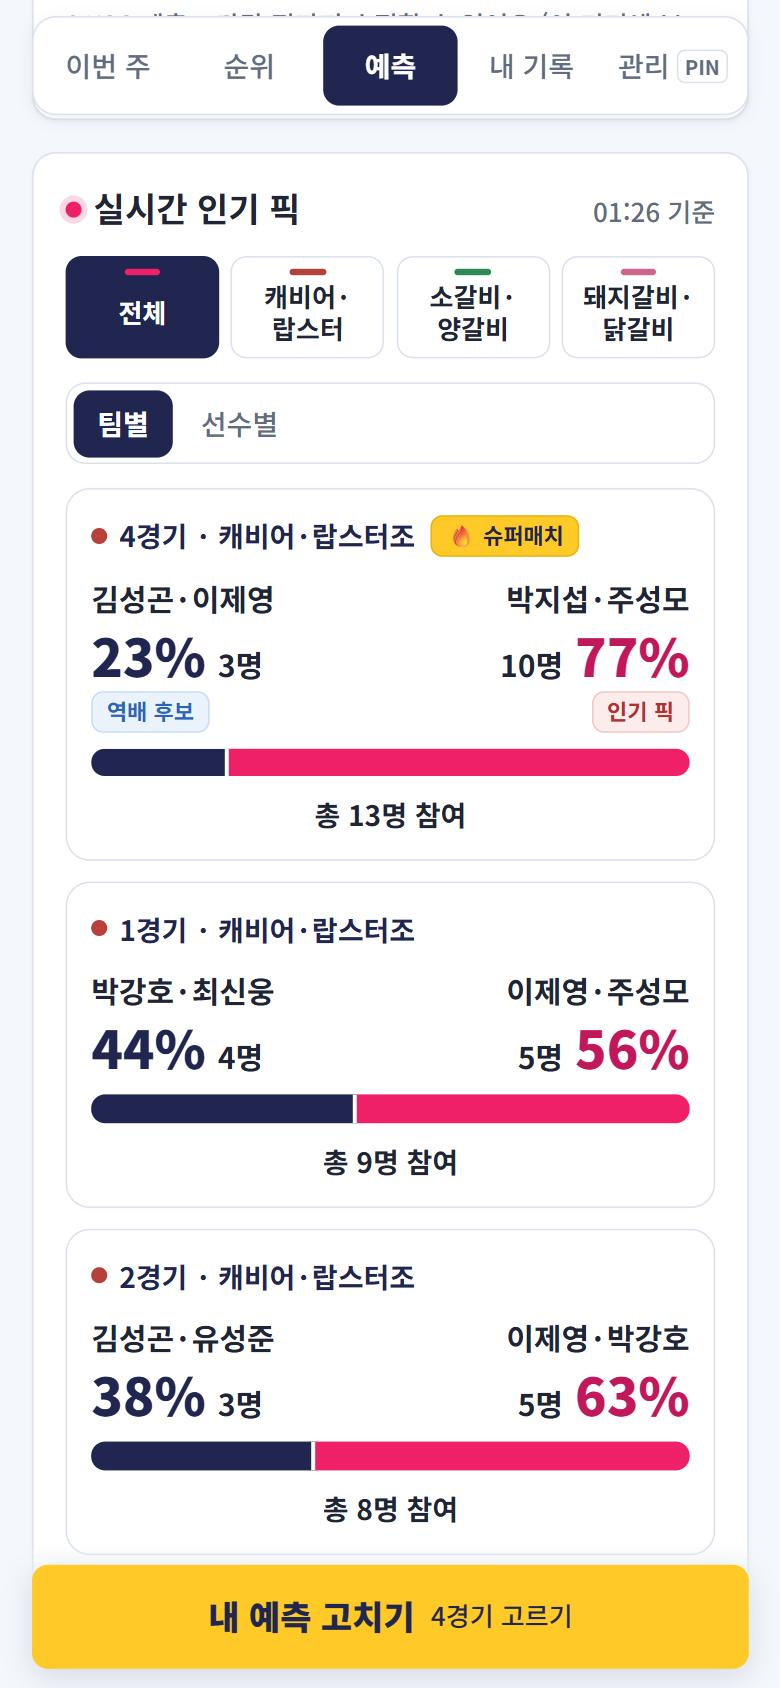
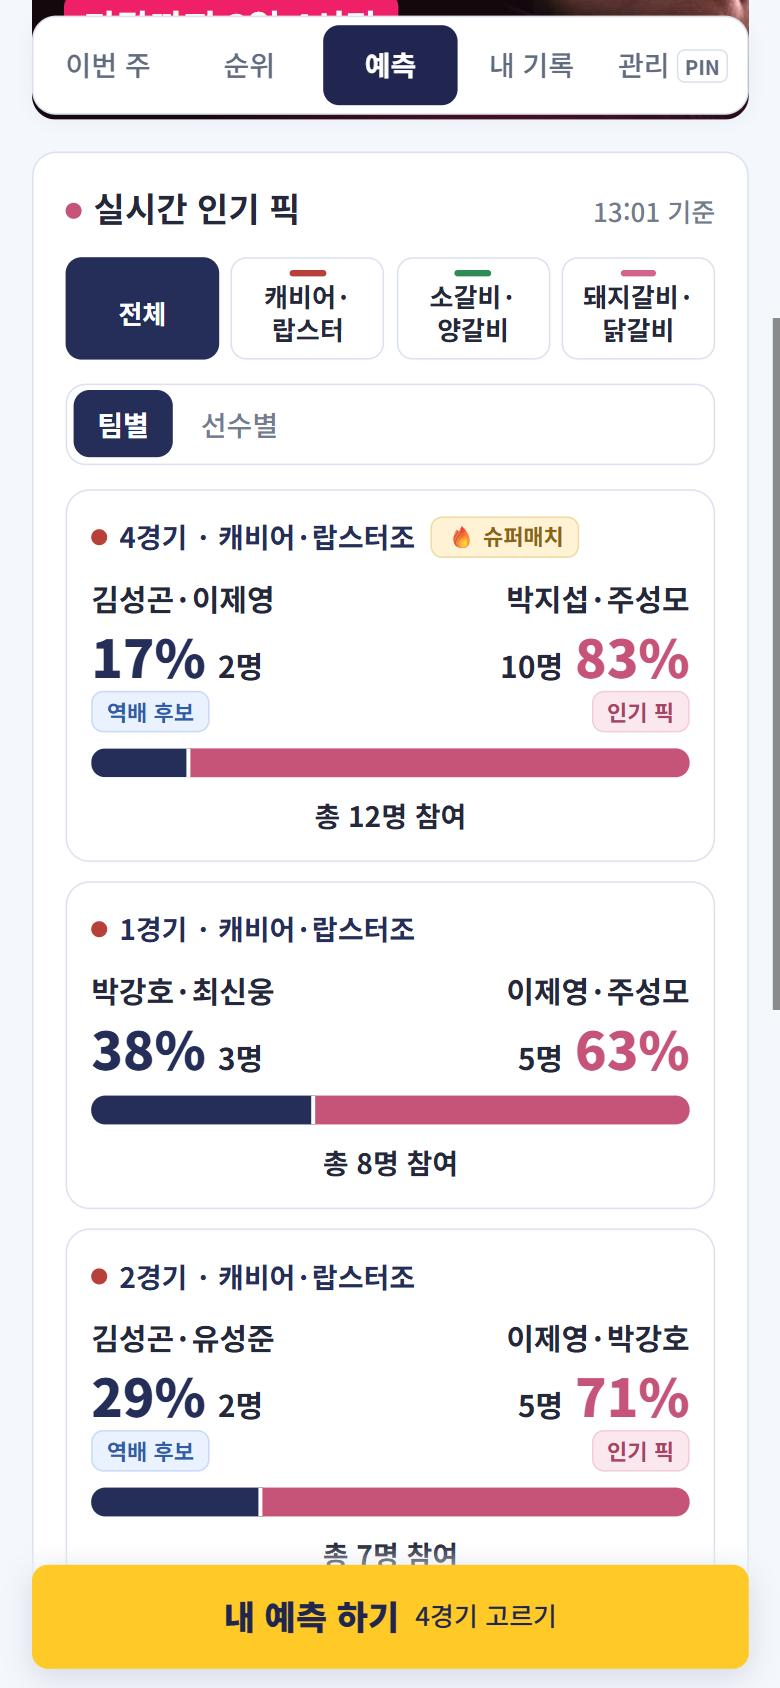
인기 픽 색 체계: 네이비(1팀)+뮤트 로즈(2팀), 배지 색 정리, 그림자 제거

diff --git a/app.css b/app.css
@@ -460,11 +460,17 @@ textarea { width: 100%; min-height: 84px; resize: vertical; }
 @media (min-width: 600px) { .plan-banner { min-height: 148px; } .pb-text { padding: 18px 0 18px 22px; } .pb-pig { right: 8px; } }
 /* 인기 픽·체결 */
 .live-dot { display: inline-block; width: 8px; height: 8px; border-radius: 50%; background: var(--plan); margin-right: 6px; vertical-align: 2px; box-shadow: 0 0 0 3px rgb(240 32 104 / .18); }
+.pp .live-dot { background: var(--rose); box-shadow: none; }
+/* 인기 픽 색 체계: 네이비(1팀·왼쪽) + 뮤트 로즈(2팀·오른쪽). 팀 색은 비율과 상관없이 고정, 인기 픽·역배 후보는 배지로만 표현
+   그라데이션·그림자 없음, 수치는 막대 바깥. 이 카드 안에서만 적용 */
+.pp { --navy: #252D59; --rose: #C65378; --rose-text: #A94365; --text: #24283A; --text-2: #737B90; --line: #DCE2EF; --line-2: #E9EDF5;
+  background: #FFFFFF; border-color: var(--line); color: var(--text); box-shadow: none; }
+.pp .muted { color: var(--text-2); }
 .pp-head { display: flex; align-items: baseline; justify-content: space-between; gap: 8px; flex-wrap: wrap; }
 .pp-list { list-style: none; margin: 0; padding: 0; display: grid; }
 .pp-row { display: grid; grid-template-columns: 22px minmax(0, 1fr) 78px; gap: 10px; align-items: center; padding: 10px 0; border-top: 1px solid var(--line-2); }
 .pp-row:first-child { border-top: 0; }
-.pp-rank { font-size: 17px; font-weight: 700; color: var(--plan-text); text-align: center; }
+.pp-rank { font-size: 17px; font-weight: 700; color: var(--navy); text-align: center; }
 .pp-main { min-width: 0; display: grid; gap: 2px; }
 .pp-name { display: flex; flex-wrap: wrap; align-items: center; gap: 2px 6px; }
 .pp-name b { font-size: 15px; font-weight: 700; }
@@ -472,23 +478,23 @@ textarea { width: 100%; min-height: 84px; resize: vertical; }
 .pe-bar { display: block; height: 4px; border-radius: 2px; background: var(--line-2); overflow: hidden; margin-top: 4px; }
 .pe-bar i { display: block; height: 100%; background: var(--navy); border-radius: 2px; }
 /* 인기 픽 막대: 회색 바탕(테두리) 안에 핑크 채움 */
-.pp-bar { display: block; height: 10px; margin-top: 6px; border-radius: 5px; background: var(--surface-2); box-shadow: inset 0 0 0 1px var(--line); overflow: hidden; }
-.pp-bar i { display: block; height: 100%; border-radius: 5px; background: var(--plan); }
+.pp-bar { display: block; height: 10px; margin-top: 6px; border-radius: 5px; background: var(--line-2); overflow: hidden; }
+.pp-bar i { display: block; height: 100%; border-radius: 5px; background: var(--navy); }
 /* 인기 픽 조 탭: 전체 + 조 3개 */
 .pp-groups { grid-template-columns: repeat(4, minmax(0, 1fr)); }
 .pp-groups button { font-size: 13px; padding: 6px 2px; }
-.pp-groups button.gall::before { background: var(--plan); }
+.pp-groups button.gall::before { background: var(--navy); }
 .pp-nums { display: grid; justify-items: end; gap: 2px; }
 .pp-nums b { font-size: 16px; font-weight: 700; color: var(--navy); }
 .pp-nums span { font-size: var(--fs-cap); font-weight: 700; color: var(--text-2); }
 /* 인기 픽 배지: 인기 픽(빨강) · 역배 후보(파랑) · 슈퍼매치(노랑, 불꽃) — 뜻이 다르므로 색도 다르게 */
-.chip.hot { background: var(--hell-50); color: var(--hell-text); border-color: #F1CACA; }
-.chip.under { background: var(--heaven-50); color: var(--heaven-text); border-color: #C9DCF5; }
-.chip.super { background: var(--yellow); color: var(--navy); border-color: #E9B60F; }
+.chip.hot { background: #FBE8EF; color: #A94365; border-color: #F3CDDA; }
+.chip.under { background: #EAF1FF; color: #315CA8; border-color: #CADAF7; }
+.chip.super { background: #FFF2D5; color: #8B6418; border-color: #F0DCA6; }
 .m-head .chip.super { margin-right: auto; }
 /* 팀별 인기 픽: 경기 하나 = 카드 하나. 왼쪽 팀 navy, 오른쪽 팀 핑크로 고정 */
 .mb-list { list-style: none; margin: 0; padding: 0; display: grid; gap: 10px; }
-.mb { display: grid; gap: 8px; padding: 12px; border: 1px solid var(--line); border-radius: var(--r-card); background: var(--surface); }
+.mb { display: grid; gap: 8px; padding: 12px; border: 1px solid var(--line); border-radius: var(--r-card); background: #FFFFFF; }
 .mb-head { display: flex; flex-wrap: wrap; align-items: center; gap: 4px 8px; }
 .mb-title { font-size: 14px; color: var(--navy); }
 .mb-total { justify-self: center; font-size: 14px; font-weight: 700; color: var(--text); }
@@ -501,14 +507,14 @@ textarea { width: 100%; min-height: 84px; resize: vertical; }
 .mb-fig b { font-size: 26px; font-weight: 900; line-height: 1.15; }
 .mb-fig span { font-size: 15px; font-weight: 700; color: var(--text); }
 .mb-team.a .mb-fig b { color: var(--navy); }
-.mb-team.b .mb-fig b { color: var(--plan-text); }
-.mb-bar { display: flex; height: 14px; border-radius: 7px; overflow: hidden; background: var(--line-2); box-shadow: inset 0 0 0 1px var(--line); }
+.mb-team.b .mb-fig b { color: var(--rose); }
+.mb-bar { display: flex; height: 14px; border-radius: 7px; overflow: hidden; background: var(--line-2); }
 .mb-bar i { display: block; height: 100%; }
 .mb-bar i.a { background: var(--navy); }
-.mb-bar i.b { background: var(--plan); }
+.mb-bar i.b { background: var(--rose); }
 .mb-bar i.a + i.b { box-shadow: -2px 0 0 #fff; }
-.pp-nums .pp-pct { font-size: 14px; color: var(--plan-text); }
-.chip.sneaky { background: #FCE8F0; color: var(--plan-text); border-color: #F5C3D7; }
+.pp-nums .pp-pct { font-size: 14px; color: var(--text); }
+.chip.sneaky { background: #FBE8EF; color: #A94365; border-color: #F3CDDA; }
 .feed { gap: 6px; }
 .feed-row { display: grid; grid-template-columns: auto auto minmax(0, 1fr) auto; gap: 8px; align-items: center; font-size: 14px; min-height: 32px; }
 .feed-t { color: var(--text-2); font-size: var(--fs-sm); }

diff --git a/docs/deploy-log.md b/docs/deploy-log.md
@@ -639,3 +639,23 @@ $ node deploy.test.js
 | 순위·관리 › 예측(가짜 서버 PIN) | 순위표 머리글 그대로, 관리 목록 15명 |
 | 가로 넘침 | scrollWidth 360 |
 확인 못 한 것: 실제 DB의 Realtime 경로(실제 주에 제출해야 함). 한쪽 100% 카드는 가짜 데이터에 없어서 화면으로는 못 봤고 테스트(matchBoard 배지)로만 확인.
+
+## 23. 인기 픽 색 체계: 네이비 + 뮤트 로즈 (사용자 요청, 2026-11-15)
+인기 픽 카드(`.pp`) 안에서만 적용. 다른 화면의 토큰(--bg, --text 등)과 배너·장 마감 리포트의 핑크는 그대로.
+```
+$ node deploy.test.js | tail -1
+21 passed
+```
+화면 확인(MOCK_DEMO 가짜 데이터, 390px) — 브라우저가 계산한 색:
+| 요소 | 값 |
+|---|---|
+| 1팀 막대·% | rgb(37, 45, 89) = #252D59 |
+| 2팀 막대·% | rgb(198, 83, 120) = #C65378 |
+| 카드 배경 / 테두리 | #FFFFFF / rgb(220, 226, 239) = #DCE2EF |
+| 기본 글자 / 보조 글자 | rgb(36, 40, 58) = #24283A / rgb(115, 123, 144) = #737B90 |
+| 인기 픽 배지 | 배경 #FBE8EF, 글자 #A94365 |
+| 역배 후보 배지 | 배경 #EAF1FF, 글자 #315CA8 |
+| 슈퍼매치 배지 | 배경 #FFF2D5, 글자 #8B6418 |
+| 막대 | 그라데이션 없음(background-image none), 두 막대 사이 흰 선 2px, 카드 그림자 없음 |
+| 선수별 | 순위 숫자·막대 #252D59, 배지 글자 "인기 선수" |
+| 가로 넘침 | scrollWidth 390 |
